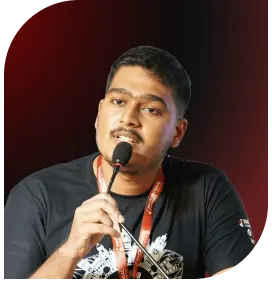
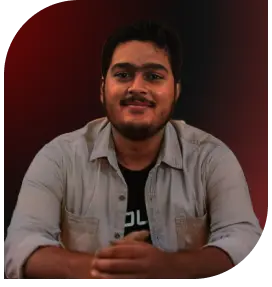
fix:team content and added advisor section

diff --git a/src/assets/data/TeamContent.js b/src/assets/data/TeamContent.js
@@ -26,6 +26,8 @@ import shubham from "../images/TeamCardImages/shubham.webp";
 import souradeep from "../images/TeamCardImages/souradeep.webp";
 import tushar from "../images/TeamCardImages/tushar.webp";
 import utkarsh from "../images/TeamCardImages/utkarsh.webp";
+import swarup from "../images/TeamCardImages/swarup.webp";
+
 
 const teamMember = {
   organizers: [
@@ -72,6 +74,13 @@ const teamMember = {
       linkedIn: "https://linkedin.com/in/snowstorm003",
       twitter: "https://twitter.com/snowstorm003",
     },
+  ],
+  advisor: [
+    {
+      img:swarup,
+      name:"Dr. Swarup Kumar Ghosh",
+      title:"Associate Prof., Department of CSE, SNU",
+    }
   ],
   core: [
     {
@@ -140,6 +149,14 @@ const teamMember = {
       title: "ML Engineer",
       linkedIn: "http://www.linkedin.com/in/amandeep404",
       twitter: "https://twitter.com/amandeep_404",
+    },
+    {
+      img: rinki,
+      name: "Rinki",
+      title: "Web Team @H4B",
+      linkedIn:
+        "https://www.linkedin.com/in/rinki-shaw-689a2121b?utm_source=share&utm_campaign=share_via&utm_content=profile&utm_medium=android_app",
+      twitter: "https://twitter.com/RinkiSh90922853",
     },
     {
       img: arindam,

diff --git a/src/assets/data/HeaderContent.js b/src/assets/data/HeaderContent.js
@@ -66,9 +66,17 @@ const HeaderData = {
     backWordMobile: "Leaders",
     backWordSize_mobile: "80px",
     backWordSpacing_mobile: "0rem",
-    frontWord: "The Organizers",
+    frontWord: "Organizers",
 
     customClass: "core_header",
+  },
+  advisor:{
+    backWord:"H4B",
+    backWordSpacing: "0rem",
+    backWordSize: "130px",
+    backWordSize_mobile: "80px",
+    backWordSpacing_mobile: "0rem",
+    frontWord: "Advisor",
   },
   core: {
     backWord: "H4B",
@@ -76,7 +84,7 @@ const HeaderData = {
     backWordSize: "130px",
     backWordSize_mobile: "100px",
     backWordSpacing_mobile: "0rem",
-    frontWord: "The Core Team",
+    frontWord: "Core Team",
     customClass: "core_header",
   },
 };

diff --git a/src/pages/team/Team.jsx b/src/pages/team/Team.jsx
@@ -51,6 +51,27 @@ const Team = ({ refs }) => {
         </div>
       </section>
 
+      {/* Advisor */}
+
+      <section className="advisor_section">
+          <Header {...HeaderData.advisor}/>
+
+          <div className="advisors_card">
+            {teamContent.advisor
+            .map((advisor,index)=>{
+              return(
+                <TeamCard
+                key={index}
+                img={advisor.img}
+                name={advisor.name}
+                title={advisor.title}
+                />
+              )
+            })
+            }
+          </div>
+      </section>
+
       {/* CORE */}
 
       <section className="core_section">

diff --git a/src/pages/team/Team.scss b/src/pages/team/Team.scss
@@ -32,9 +32,29 @@
       margin-top: 2rem;
     }
   }
+  
+  .advisor_section {
+    margin-top: 10rem;
+    display: flex;
+    flex-direction: column;
+    align-items: center;
+
+    .advisors_card {
+      margin-top: 4rem;
+      padding: 4rem 9rem;
+
+      @media screen and (max-width: 900px) {
+        display: flex;
+        flex-direction: column;
+        padding: 0;
+        justify-content: center;
+        align-items: center;
+      }
+    }
+  }
 
   .core_section {
-    margin-top: 10rem;
+    margin-top: 5rem;
     display: flex;
     flex-direction: column;
     align-items: center;
